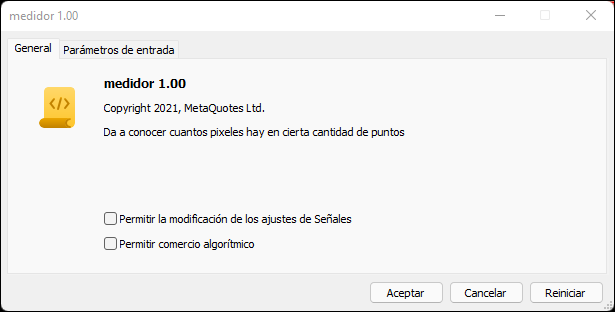
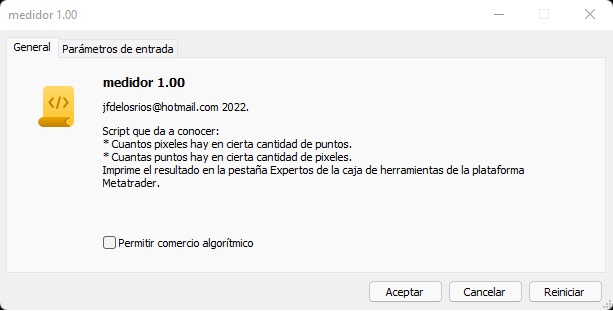
Varios cambios: * Se adiciona documentacion en README.md * Se modifica  codigo fuente para que pase tambien de   pixeles a puntos.

diff --git a/README.md b/README.md
@@ -1,9 +1,25 @@
-# medidor
+# Medidor.
 
-Da a conocer cuantos pixeles hay en cierta cantidad de puntos. Imprime el resultado en la pestaña Expertos de la caja de herramientas de la plataforma Metatrader.
+## Función.
+
+Script que da a conocer:
+
+* Cuantos pixeles hay en cierta cantidad de puntos.
+
+* Cuantas puntos hay en cierta cantidad de pixeles.
+
+Imprime el resultado en la pestaña Expertos de la caja de herramientas de la plataforma Metatrader.
 
 ![Esta es una imagen](/img/general.png)
 
+## Parámetros de entrada.
+
 ![Esta es una imagen](/img/parametrosEntrada.png)
 
-El codigo solo corre en Metatrader 5.
+* Cantidad de pixeles, si Tipo de entrada es Puntos a pixeles.
+
+* Cantidad de puntos , si Tipo de entrada es Pixeles a puntos.
+
+## Requisitos.
+
+El codigo sólo corre en Metatrader 5.
